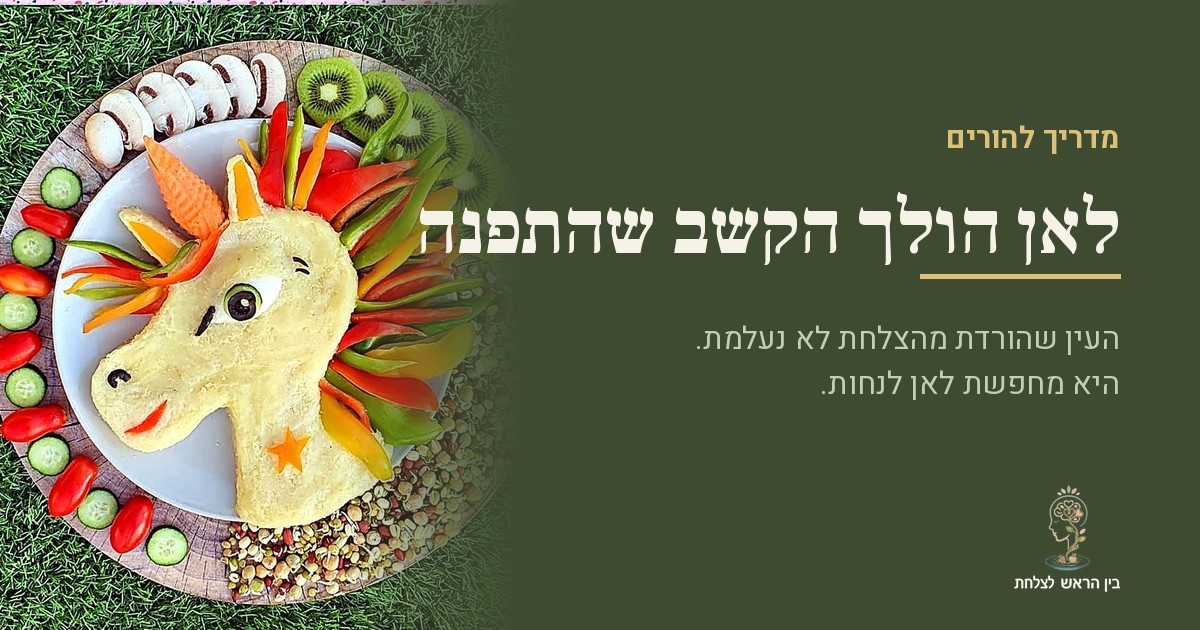
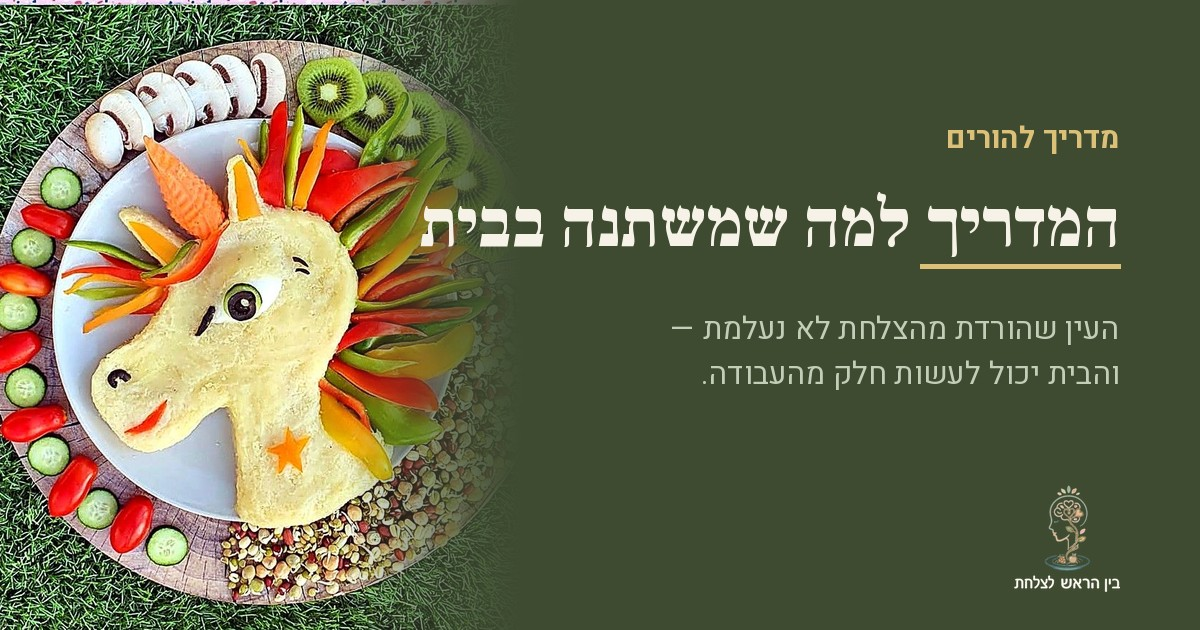
עדכון /home לגרסה החדשה של המדריך (#69)
הכותרת: 'לאן הולך הקשב שהתפנה' → 'המדריך למה שמשתנה בבית'.

מקטע חדש — 'הבית עושה חלק מהעבודה במקומו', עם שלושת הדברים שאפשר
לשנות בלי לגעת בילד. פסקאות הנגישות שהיו קודם תחת 'כשהוא לוקח עוד'
עברו לשם, כך שהמקטע ההוא חזר להיות קצר.

'המבחן' הפך ל'שאלה ששווה לשאול', עם המשך שמכיר בכך שזו נקודת הפתיחה
של רוב האמהות במקום להשאיר את השאלה כמבחן שנכשלים בו.

'כשמישהו אחר מעיר לו' כולל עכשיו את בן הזוג, ונוספה הפסקה על
תיאום מראש בין שני המבוגרים בבית.

הכתובת נשארת /home — הכותרת החדשה מתאימה לה טוב יותר מהקודמת.
כרטיסיית השיתוף נבנתה מחדש ועודכנה ל-v2.

Claude-Session: https://claude.ai/code/session_01YK6JrrT1s6ebMPWz6oaJHF

Changed region(s): [[0.3392, 0.3016, 0.9558, 0.4524], [0.5858, 0.5127, 0.925, 0.6333]]

diff --git a/public/home.html b/public/home.html
@@ -3,27 +3,27 @@
 <head>
 <meta charset="UTF-8">
 <meta name="viewport" content="width=device-width, initial-scale=1">
-<title>לאן הולך הקשב שהתפנה — מה נבנה במקום ההערות ליד השולחן</title>
-<meta name="description" content="העין שהורדת מהצלחת לא נעלמת — היא מחפשת לאן לנחות. על הזמן שנבנה במקום ההערות, מה הערות עושות מעבר לרגע עצמו, ומה קורה בשבוע השני של השקט.">
+<title>המדריך למה שמשתנה בבית — מה קורה כשהעין יורדת מהצלחת</title>
+<meta name="description" content="העין שהורדת מהצלחת לא נעלמת — היא מחפשת לאן לנחות. על מה שהבית יכול לעשות במקום ההערות, מה הערות עושות מעבר לרגע עצמו, ומה קורה בשבוע השני של השקט.">
 <link rel="canonical" href="https://eti-zitun.com/home">
 
-<meta property="og:title" content="לאן הולך הקשב שהתפנה — מדריך להורים">
-<meta property="og:description" content="העין שהורדת מהצלחת לא נעלמת. היא מחפשת לאן לנחות — והדף הזה הוא על המקום הזה.">
+<meta property="og:title" content="המדריך למה שמשתנה בבית">
+<meta property="og:description" content="העין שהורדת מהצלחת לא נעלמת — היא מחפשת לאן לנחות. הדף הזה הוא על מה שהבית יכול לעשות במקומה.">
 <meta property="og:type" content="article">
 <meta property="og:url" content="https://eti-zitun.com/home">
 <meta property="og:site_name" content="בין הראש לצלחת">
 <meta property="og:locale" content="he_IL">
-<meta property="og:image" content="https://eti-zitun.com/og-home.jpg?v=1">
-<meta property="og:image:secure_url" content="https://eti-zitun.com/og-home.jpg?v=1">
+<meta property="og:image" content="https://eti-zitun.com/og-home.jpg?v=2">
+<meta property="og:image:secure_url" content="https://eti-zitun.com/og-home.jpg?v=2">
 <meta property="og:image:width" content="1200">
 <meta property="og:image:height" content="630">
 <meta property="og:image:type" content="image/jpeg">
-<meta property="og:image:alt" content="בין הראש לצלחת — לאן הולך הקשב שהתפנה">
+<meta property="og:image:alt" content="בין הראש לצלחת — המדריך למה שמשתנה בבית">
 
 <meta name="twitter:card" content="summary_large_image">
-<meta name="twitter:title" content="לאן הולך הקשב שהתפנה — מדריך להורים">
+<meta name="twitter:title" content="המדריך למה שמשתנה בבית">
 <meta name="twitter:description" content="העין שהורדת מהצלחת לא נעלמת. היא מחפשת לאן לנחות.">
-<meta name="twitter:image" content="https://eti-zitun.com/og-home.jpg?v=1">
+<meta name="twitter:image" content="https://eti-zitun.com/og-home.jpg?v=2">
 
 <meta name="theme-color" content="#3E4B31">
 <link rel="icon" href="/logo-mark.png">
@@ -82,16 +82,17 @@
   /* on the sage band the default sage box would vanish into the ground */
   .band-sage .pull{background:var(--paper);}
 
-  .test{
+  .ask{
     border-right:3px solid var(--amber);background:var(--paper);
     padding:18px 20px;border-radius:0 14px 14px 0;margin:26px 0;
   }
-  .test p{margin:0 0 8px;font-size:16.5px;}
-  .test p:last-child{margin-bottom:0;}
+  .ask p{margin:0 0 10px;font-size:16.5px;}
+  .ask p:last-child{margin-bottom:0;}
 
   ul.plain{list-style:none;padding:0;margin:0 0 18px;}
-  ul.plain li{padding:13px 0;border-bottom:1px solid var(--line);font-size:16.5px;color:#4A543D;}
+  ul.plain li{padding:14px 0;border-bottom:1px solid var(--line);font-size:16.5px;color:#4A543D;}
   ul.plain li:last-child{border-bottom:none;}
+  ul.plain b{display:block;margin-bottom:5px;font-weight:700;color:var(--olive);}
   .band-olive ul.plain li{border-bottom-color:rgba(228,232,216,.18);color:var(--on-olive);}
 
   .cards{display:grid;grid-template-columns:repeat(auto-fit,minmax(250px,1fr));gap:16px;margin-top:24px;}
@@ -99,11 +100,10 @@
   .card h3{font-family:"Frank Ruhl Libre",serif;font-size:19px;font-weight:700;margin:0 0 10px;color:var(--olive);}
   .card p{margin:0 0 12px;font-size:15.5px;}
   .card p:last-child{margin-bottom:0;}
-  .card.warn{border-color:var(--amber);border-width:1px;background:#FBF6EA;}
+  .card.warn{border-color:var(--amber);background:#FBF6EA;}
 
   .qa{border-top:1px solid var(--line);padding:22px 0;}
   .qa:first-of-type{border-top:none;padding-top:0;}
-  .qa:last-of-type{padding-bottom:0;}
   .qa h3{font-family:"Frank Ruhl Libre",serif;font-size:20px;font-weight:700;margin:0 0 10px;color:var(--olive);}
   .qa p{font-size:16px;}
 
@@ -130,9 +130,9 @@
   <div class="inner" style="padding:0;">
     <img class="brand" src="/logo-mark-light.png" alt="בין הראש לצלחת" width="515" height="520">
     <p class="eyebrow">מדריך להורים</p>
-    <h1>לאן הולך הקשב שהתפנה</h1>
+    <h1>המדריך למה שמשתנה בבית</h1>
     <p>בקרוסלה כתבתי מה כדאי להפסיק להגיד ליד השולחן.</p>
-    <p>אבל העין שהורדת מהצלחת לא נעלמת. היא מחפשת לאן לנחות. הדף הזה הוא על המקום הזה.</p>
+    <p>אבל העין שהורדת מהצלחת לא נעלמת — היא מחפשת לאן לנחות. הדף הזה הוא על המקום הזה, ועל מה שהבית יכול לעשות במקומו.</p>
   </div>
 </header>
 
@@ -143,9 +143,9 @@
     <p>ואפשר לצאת לחצי שעה שהוא מבקש לחזור עליה מחר.</p>
     <p>ההבדל הוא לא הפעילות. ההבדל הוא אם <strong>את</strong> נהנית שם.</p>
     <p>ילד מזהה את זה מיד. הוא יודע להבדיל בין אמא שנמצאת איתו לבין אמא שמוציאה אותו. הראשונה זה זמן. השנייה זה טיפול — והוא ירגיש את זה גם אם לא תגידי מילה על משקל.</p>
-    <div class="test">
-      <p><strong>המבחן:</strong> האם היית עושה את זה גם אם הוא לא היה עולה במשקל?</p>
-      <p>אם התשובה היא לא — הוא ידע. תמיד.</p>
+    <div class="ask">
+      <p><strong>שאלה ששווה לשאול:</strong> אם הוא לא היה עולה במשקל — הייתם עושים את זה בכלל?</p>
+      <p>ואם התשובה היא לא, זה בסדר. זו נקודת הפתיחה של רוב האמהות. מה שחשוב זה מה קורה שם בפועל — אם את מוצאת את עצמך נהנית, זה כבר לא אותו דבר.</p>
     </div>
   </div>
 </section>
@@ -170,12 +170,24 @@
   <div class="inner">
     <h2>החלק שאנחנו שוכחות: גם את צריכה ליהנות</h2>
     <p>ולא כל אמא זוכרת מתי בפעם האחרונה עשתה משהו מתוך הנאה — לא בשביל מישהו, לא כדי לסמן משימה. אצל רוב הנשים ההנאה של עצמן נמצאת בתחתית הרשימה, אחרי כולם. זו לא הערה על אופי. זה מה שהחיים עשו.</p>
-    <p>אבל ילד לא לומד מה זה מבוגר ממה שמסבירים לו. הוא לומד ממה שהוא רואה.</p>
+    <p>אבל ילד לומד מה זה מבוגר ממה שהוא רואה בבית, לא ממה שמסבירים לו.</p>
     <div class="pull">אל תחפשי את הפעילות שהכי שורפת.<br>חפשי משהו ששניכם תרצו לעשות שוב.</div>
   </div>
 </section>
 
 <section class="band band-cream">
+  <div class="inner">
+    <h2>הבית עושה חלק מהעבודה במקומו</h2>
+    <p>אי אפשר לבקש מילד להפעיל כוח רצון מול בית שהמשיך בדיוק כרגיל. שלושה דברים, ואף אחד מהם לא נוגע בו:</p>
+    <ul class="plain">
+      <li><b>לא צריך להעלים חטיפים — אבל גם לא צריך להגיש אותם לעיניים כל הערב.</b> ילד שהמתוק נעלם לו מהבית לומד לקחת כשיש, בכמות, אצל חברים. מה שמשתנה זו הנגישות, לא הקיום. ההבדל בין "יש בבית" לבין "יושב מולי כל הערב" הוא עצום.</li>
+      <li><b>לא מחכים שהוא יהיה רעב כדי לגלות שאין משהו משביע וזמין.</b> רוב האכילה שמדאיגה אתכם קורית בשעה שבה אין ברירה אחרת בהישג יד.</li>
+      <li><b>לא משנים את הצלחת שלו.</b> בודקים מה כל הבית אוכל, שותה ומנשנש שוב ושוב.</li>
+    </ul>
+  </div>
+</section>
+
+<section class="band band-paper">
   <div class="inner">
     <h2>מה שהערות עושות, מעבר לרגע עצמו</h2>
     <p>הערה אחת ליד השולחן נראית קטנה. הבעיה היא לא הרגע — היא מה שהוא סוגר.</p>
@@ -188,7 +200,7 @@
       <div class="card">
         <h3>וזה גם מסלים בקלות</h3>
         <p>לפעמים הערה באמת גורמת לו לעצור. ודווקא כאן מתחילה המלכודת — מבחינתנו קיבלנו הוכחה שזה עובד, אז בפעם הבאה נעיר שוב. וכשההשפעה נחלשת, קל מאוד להוסיף עוד קצת: מבט, טון, אנחה, "באמת עוד אחד?"</p>
-        <p>ההערות לא מתגברות כי נעשינו קשות יותר. הן מתגברות כי כל אחת קונה פחות מהקודמת. וכל שלב מרגיש בזמן אמת כמו צעד קטן והגיוני לגמרי.</p>
+        <p>ההערות לא מתגברות כי מישהו נעשה קשה יותר. הן מתגברות כי כל אחת קונה פחות מהקודמת. וכל שלב מרגיש בזמן אמת כמו צעד קטן והגיוני לגמרי.</p>
       </div>
       <div class="card warn">
         <h3>נורות אזהרה</h3>
@@ -199,7 +211,7 @@
   </div>
 </section>
 
-<section class="band band-paper">
+<section class="band band-sage">
   <div class="inner">
     <h2>ומה עם המשפטים ליד השולחן</h2>
     <p>בקצרה, כי זה החלק שכבר התחלנו בקרוסלה:</p>
@@ -207,8 +219,6 @@
     <div class="qa">
       <h3>כשהוא לוקח עוד</h3>
       <p>כלום. מה שנמצא בבית זו ההחלטה שלך. מה שקורה בצלחת זו כבר שלו.</p>
-      <p>ורק שיהיה ברור מה זה אומר: לא להעלים. ילד שהמתוק נעלם לו מהבית לומד לקחת כשיש — בכמות, אצל חברים, כשאף אחד לא רואה. הוא לא אוכל פחות, הוא אוכל במקום אחר.</p>
-      <p>מה שכן משתנה זו הנגישות. אותם דברים בדיוק, רק לא בקערה על השולחן ולא בגובה העיניים בארון. ההבדל בין "יש בבית" לבין "יושב מולי כל הערב" הוא עצום, והוא לא דורש ממך לקחת ממנו כלום.</p>
     </div>
 
     <div class="qa">
@@ -218,12 +228,13 @@
 
     <div class="qa">
       <h3>כשמישהו אחר מעיר לו</h3>
-      <p>סבתא, דוד, אח גדול. "אצלנו לא מדברים על מה שבצלחת", בקול, בלי טון, וממשיכים הלאה. הוא צריך לראות שיש מי שעומד בשער.</p>
+      <p>בן הזוג, סבתא, דוד, אח גדול. "אצלנו לא מדברים על מה שבצלחת", בקול, בלי טון, וממשיכים הלאה. הוא צריך לראות שיש מי שעומד בשער.</p>
+      <p>וזו שיחה שכדאי לעשות מראש, לא באמצע ארוחה. שינוי כזה לא מחזיק כשמבוגר אחד בבית מחליט לשתוק והשני ממשיך להעיר — הילד פשוט לומד ליד מי אפשר לאכול בשקט.</p>
     </div>
   </div>
 </section>
 
-<section class="band band-sage">
+<section class="band band-cream">
   <div class="inner">
     <h2>מה יקרה לך בשבוע השני</h2>
     <p>בשבוע הראשון השקט מרגיש נכון.</p>
@@ -240,7 +251,7 @@
   <div class="inner">
     <p>אם קראת וחשבת "אבל אצלנו זה מסובך יותר" — כנראה שאת צודקת. כל בית שונה.</p>
     <p>כתבי לי ונעבור על הבית שלך יחד.</p>
-    <p><a class="cta" href="https://wa.me/972523336766?text=%D7%94%D7%99%D7%99%20%D7%90%D7%AA%D7%99%2C%20%D7%A7%D7%A8%D7%90%D7%AA%D7%99%20%D7%90%D7%AA%20%22%D7%9C%D7%90%D7%9F%20%D7%94%D7%95%D7%9C%D7%9A%20%D7%94%D7%A7%D7%A9%D7%91%20%D7%A9%D7%94%D7%AA%D7%A4%D7%A0%D7%94%22" rel="noopener">כתבי לי בוואטסאפ</a></p>
+    <p><a class="cta" href="https://wa.me/972523336766?text=%D7%94%D7%99%D7%99%20%D7%90%D7%AA%D7%99%2C%20%D7%A7%D7%A8%D7%90%D7%AA%D7%99%20%D7%90%D7%AA%20%22%D7%94%D7%9E%D7%93%D7%A8%D7%99%D7%9A%20%D7%9C%D7%9E%D7%94%20%D7%A9%D7%9E%D7%A9%D7%AA%D7%A0%D7%94%20%D7%91%D7%91%D7%99%D7%AA%22" rel="noopener">כתבי לי בוואטסאפ</a></p>
     <p class="sign">💛</p>
 
     <footer>
